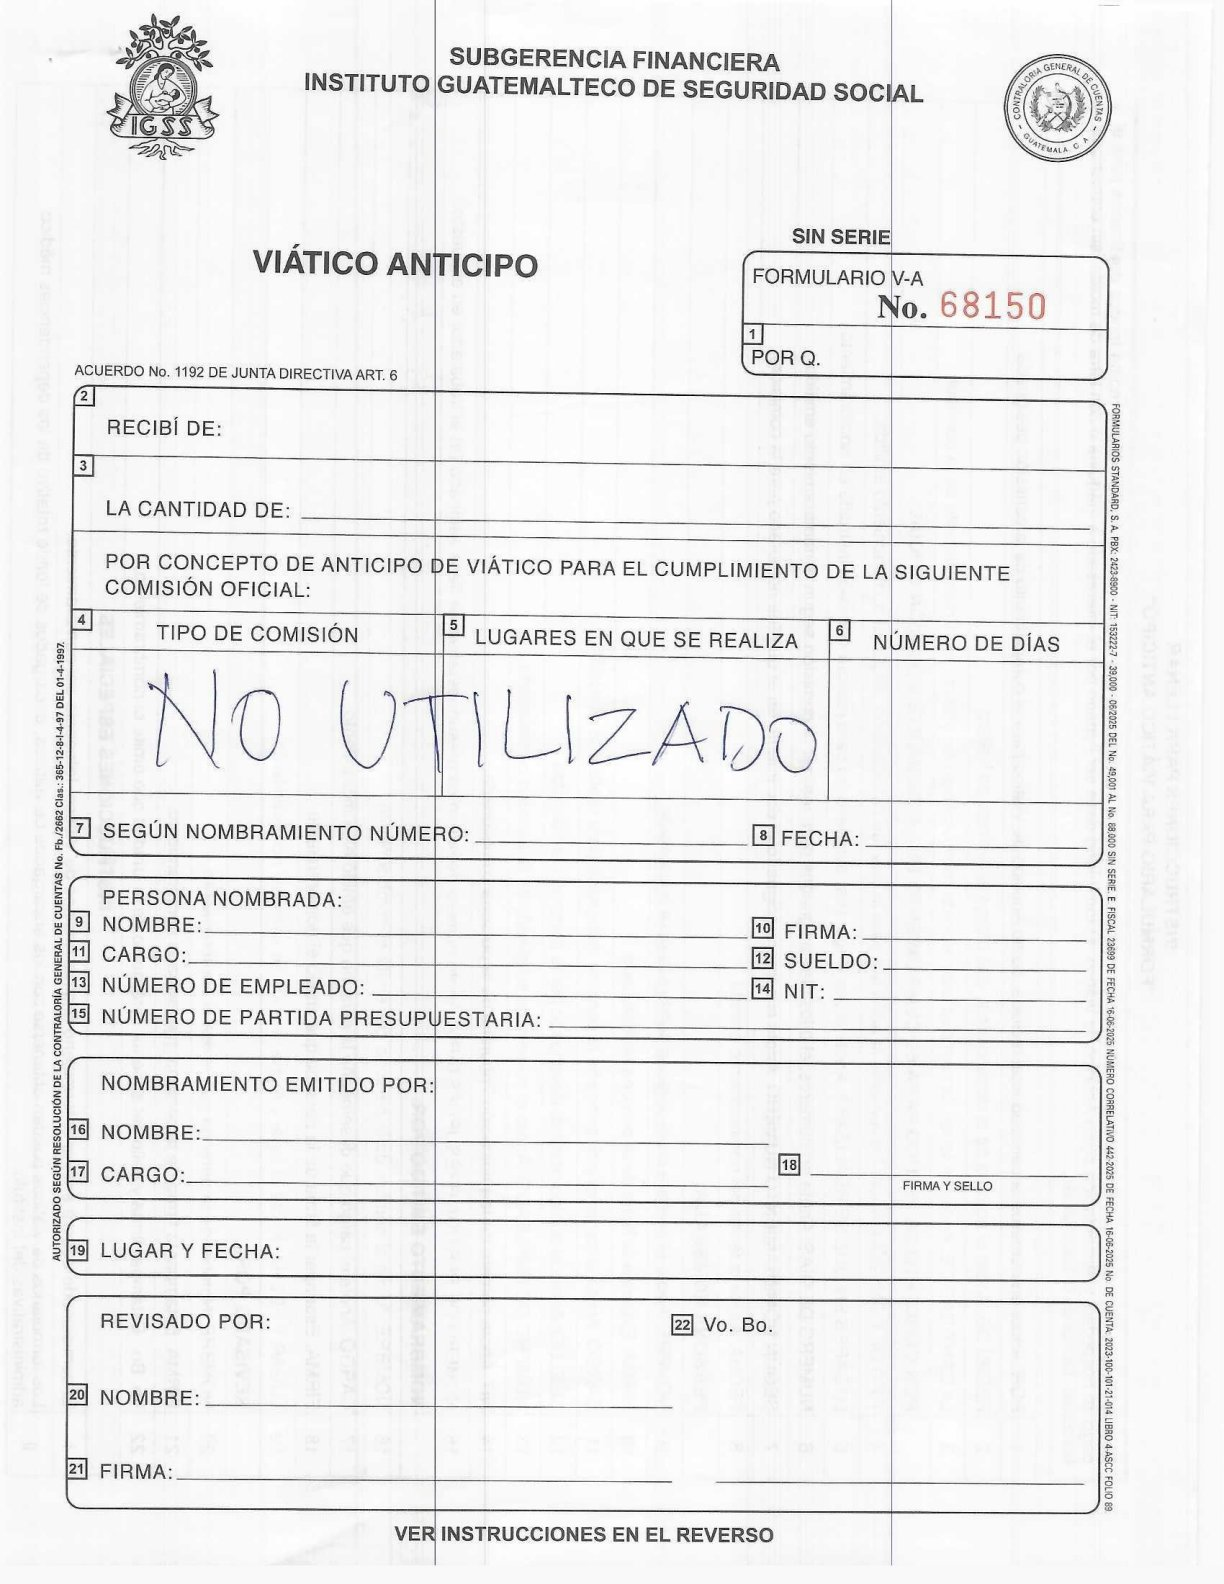
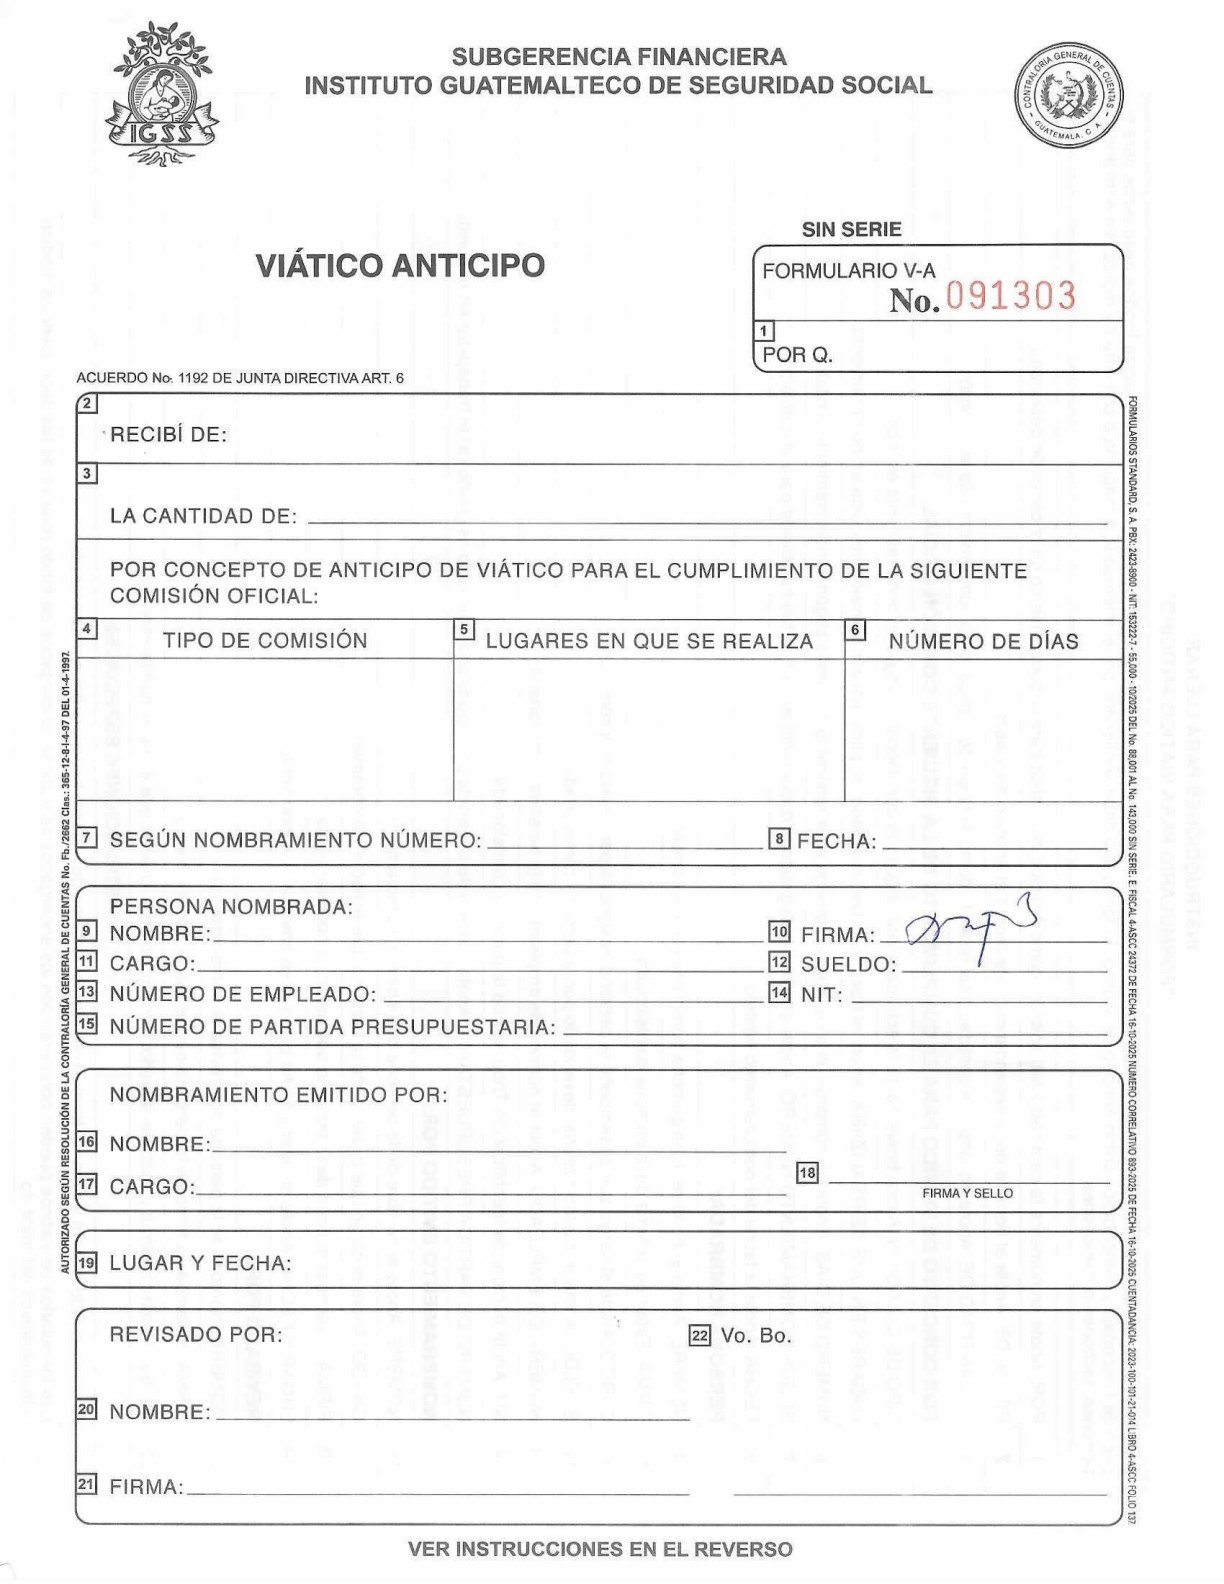
Reemplazar imágenes de fondo de V-A/V-C/V-L por los formularios reales en blanco
Las imágenes de referencia usadas en "Ver posiciones" (private/viatico-
v{a,c,l}-fondo.jpg) eran del modelo lleno que mandó el cliente al
construir el módulo — mezclar ese texto de ejemplo con el texto real
capturado encima se veía confuso. Se reemplazan por los 3 talonarios
reales en blanco que mandó el cliente, convertidos a JPG con pypdfium2
al mismo tamaño que las imágenes anteriores. No hizo falta recalibrar
posiciones — ya estaban calibradas contra el papel físico, no contra
la imagen de referencia.

Claude-Session: https://claude.ai/code/session_01YUwJqRtho2v24bqdbtqfET

diff --git a/src/lib/impresion-posiciones-actions.ts b/src/lib/impresion-posiciones-actions.ts
@@ -27,9 +27,12 @@ const FONDOS: Record<string, string> = {
   cheque: "cheque-fondo.jpg",
   // Viáticos (V-A/V-C/V-L) — el cliente pidió (2026-09-07) el mismo sistema
   // de posiciones arrastrables que ya tiene el DAB-60. Las imágenes de fondo
-  // son del modelo real lleno que mandó el cliente (MODELO_VIATICO.pdf,
-  // páginas 1-3), no un talonario en blanco — sirve igual para calibrar,
-  // porque solo se usa como referencia semitransparente en pantalla.
+  // son los 3 formularios reales EN BLANCO que mandó el cliente
+  // (VIATICO_ANTICIPO_V-A1.pdf/VIATICO_CONSTANCIA_V-C.pdf/
+  // VIATICO_LIQUIDACION_V-L.pdf, 2026-09-18) — reemplazaron las primeras
+  // imágenes de fondo, que eran del modelo LLENO (MODELO_VIATICO.pdf) y se
+  // veían confusas/difíciles de leer al mezclar el texto de ejemplo ya
+  // escrito con el texto real que captura cada usuario encima.
   viatico_va: "viatico-va-fondo.jpg",
   viatico_vc: "viatico-vc-fondo.jpg",
   viatico_vl: "viatico-vl-fondo.jpg",

diff --git a/CLAUDE.md b/CLAUDE.md
@@ -2748,6 +2748,26 @@ distintas visibles/ocultas (confirmado por el cliente 2026-08-22). Piezas:
   desde cero al iniciar sesión, sin depender de que Next.js decida
   refrescar el árbol de layouts en una navegación suave. Verificado que el
   login sigue funcionando normal tras el cambio.
+- **Imágenes de fondo de V-A/V-C/V-L reemplazadas por los formularios reales
+  EN BLANCO (2026-09-18)** — las 3 imágenes en `private/viatico-v{a,c,l}-
+  fondo.jpg` (solo referencia visual en "Ver posiciones", nunca se imprimen)
+  eran del modelo real LLENO que mandó el cliente al principio del módulo
+  (`MODELO_VIATICO.pdf`, ver Fase E de Viáticos arriba) — el cliente pidió
+  cambiarlas porque mezclar el texto de ese ejemplo ya escrito con el texto
+  real que cada usuario captura encima se veía feo/costaba leer. El cliente
+  mandó los 3 PDF del talonario real en blanco (`VIATICO_ANTICIPO_V-A1.pdf`/
+  `VIATICO_CONSTANCIA_V-C.pdf`/`VIATICO_LIQUIDACION_V-L.pdf`) — se
+  convirtieron a JPG con `pypdfium2` (`page.render(scale=144/72)`, sin
+  necesitar poppler/ImageMagick, que no están instalados en este entorno) a
+  1224x1584px, el mismo tamaño que ya tenían las imágenes viejas (612x792pt
+  Letter @144dpi) — no hizo falta recalibrar ningún `POS_DEFAULT`, porque
+  esas posiciones ya estaban calibradas contra el papel físico real, no
+  contra la imagen de referencia (ver el comentario ya existente sobre
+  esto en la Fase E). Verificado en vivo con el Formulario 117971 real, modo
+  "Ver posiciones" en los 3 documentos: el fondo nuevo se ve limpio (talonario
+  en blanco, solo con el número de formulario/sello de autorización
+  pre-impresos de fábrica) y los campos existentes siguen cayendo dentro de
+  sus casillas correspondientes sin desalinearse.
 
 ## Cómo se prueba un cambio antes de darlo por terminado
 
